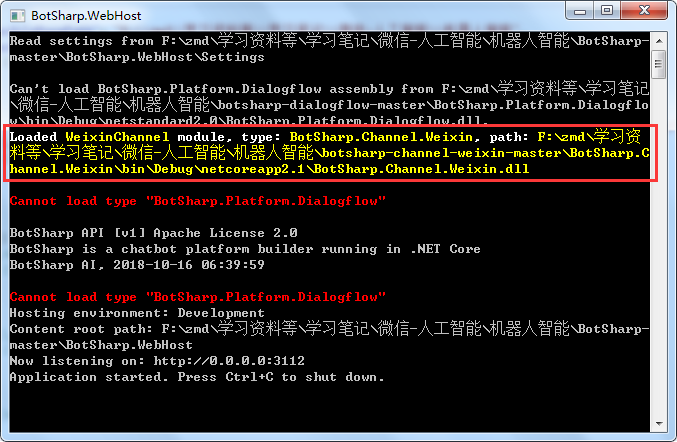
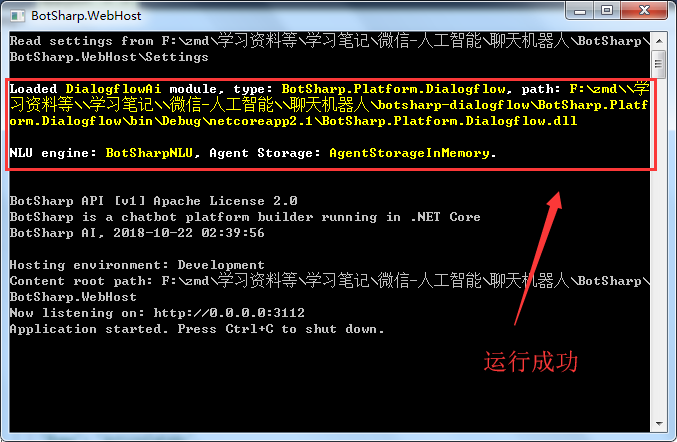
README.md
集成微信公众号文档

diff --git a/docs/集成微信公众号/集成微信公众号.md b/docs/集成微信公众号/集成微信公众号.md
@@ -12,22 +12,28 @@ grammar_cjkRuby: true
 
   要与微信公众号对接，首先要成功运行BotSharp。下面详细讲解运行BotSharp的步骤：
 ## 加载项目
+加载的项目为botsharp-channel-weixin和botsharp-dialogflow两个项目。
 项目botsharp-channel-weixin为腾讯微信BotSharp的通道模块，加载此项目可以省去编写微信通道模块的过程，当然也可以根据自己的需求去编写微信的通道模块。
 
-项目文件botsharp-channel-weixin下载地址(https://github.com/Oceania2018/botsharp-channel-weixin)将botsharp-channel-weixin项目放置到BotSharp同级的目录下。加载botsharp-channel-weixin到BotSharp中。
-				  ![](./集成微信公众号图片/图片1.png)
+项目文件botsharp-channel-weixin下载地址(https://github.com/Oceania2018/botsharp-channel-weixin)将botsharp-channel-weixin和botsharp-dialogflow项目放置到BotSharp同级的目录下。并加载到BotSharp中。
+
+![](./集成微信公众号图片/图片1.png)
 
 右键点击“==依赖项==”、“==添加引用==”，把botsharp-channel-weixin项目添加到BotSharp.WebHost的引用中。
-				![](./集成微信公众号图片/图片2.png)
+
+![](./集成微信公众号图片/图片2.png)
 				
-找到BotSharp.WebHost下的app.json,修改moduleBasePath和botsharp-channel-weixin的Path路径。程序会根据路径找到其项目的.dll。
-	  ![](./集成微信公众号图片/图片3.png)
+找到BotSharp.WebHost下的app.json,修改moduleBasePath和botsharp-dialogflow的Path路径。程序会根据路径找到其项目的.dll。
+
+![](./集成微信公众号图片/图片3.png)
 	  
 ## 运行BotSharp
-加载项目完毕，运行BotSharp项目，出现如下的黑色的控制台程序，表示程序找到了botsharp-channel-weixin的.dll,项目运行成功。如果想用NLU，做自然语言理解，则可以加载botsharp-dialogflow项目到BotSharp中。
+加载项目完毕，运行BotSharp项目，出现如下的黑色的控制台程序，表示程序找到了botsharp-dialogflow的.dll,项目运行成功。
+
 ![](./集成微信公众号图片/BotSharp运行结果.png)
 
 运行成功后，打开网址为(http://localhost:3112/index.html)的网页，此网页所显示的为BotSharp的接口列表。
+
 ![](./集成微信公众号图片/3112.png)
 
 # 对接微信公众号
@@ -38,6 +44,7 @@ grammar_cjkRuby: true
 **1)申请服务器**
 
 我们所要填写的url必须是外网能够访问到的服务器地址，而且必须是80端口，通过服务器的地址你要能够让微信访问到你的项目。
+
 ![](./集成微信公众号图片/微信接口配置信息1.png)
 
 我们需要把内网映射出去变成能够访问的外网，我们采取一个简单的方法，通过ngrok进行内网穿透。ngrok工具的下载地址：(http://ngrok.ciqiuwl.cn/)下载完成后解压缩。
@@ -45,21 +52,30 @@ grammar_cjkRuby: true
 找到apps.bat文件，点击右键打开记事本进行编辑，,执行 *ngrok -config=ngrok.cfg -subdomain xxx 80*//(xxx 是你自定义的域名前缀)，如执行*ngrok -config=ngrok.cfg -subdomain sss 3112* ，双击弹出一个黑窗体，该黑窗体显示的域名就是映射出去的网址。
 
 也有其它的方法得到外网网址，如通过路由器映射，可自行通过百度上网查询。
+
 ![](./集成微信公众号图片/ngrok黑窗体.png)
+
 其中http://sss.ngrok.xiaomiqiu.cn即为映射的外网IP。
 
 **2)填写接口配置信息**
 
 url填写： http://外网IP/wx
 Token：自主设置，这个token与公众平台wiki中常提的access_token不是一回事。这个token只用于验证开发者服务器。
+
 ![](./集成微信公众号图片/配置接口url.png)
 
 Token是用于交互安全认证的，可任意填写，但要与服务端的校验微信的Controller一样。
 
-打开BotSharp-Channel-Weixin类库下的Controllers文件中WeixinAsyncConreoller.cs类。正确填写Token、AppId字符串。其中Token要与微信测试号中的Token相同。
+打开BotSharp.Webhost下的channels.weixin.json
+
+![](./集成微信公众号图片/程序配置信息.png)
+
+正确填写Token、AppId字符串。其中Token要与微信测试号中的Token相同。
+
 ![](./集成微信公众号图片/配置接口Token.png)
 
 填写完毕，打开ngrok并运行BotSharp项目，则可以成功提交微信测试号的接口配置信息。
+
 ![](./集成微信公众号图片/接口配置成功.png)
 
 填写JS接口安全域名，域名可随意填写。微信扫描关注测试公众号。
